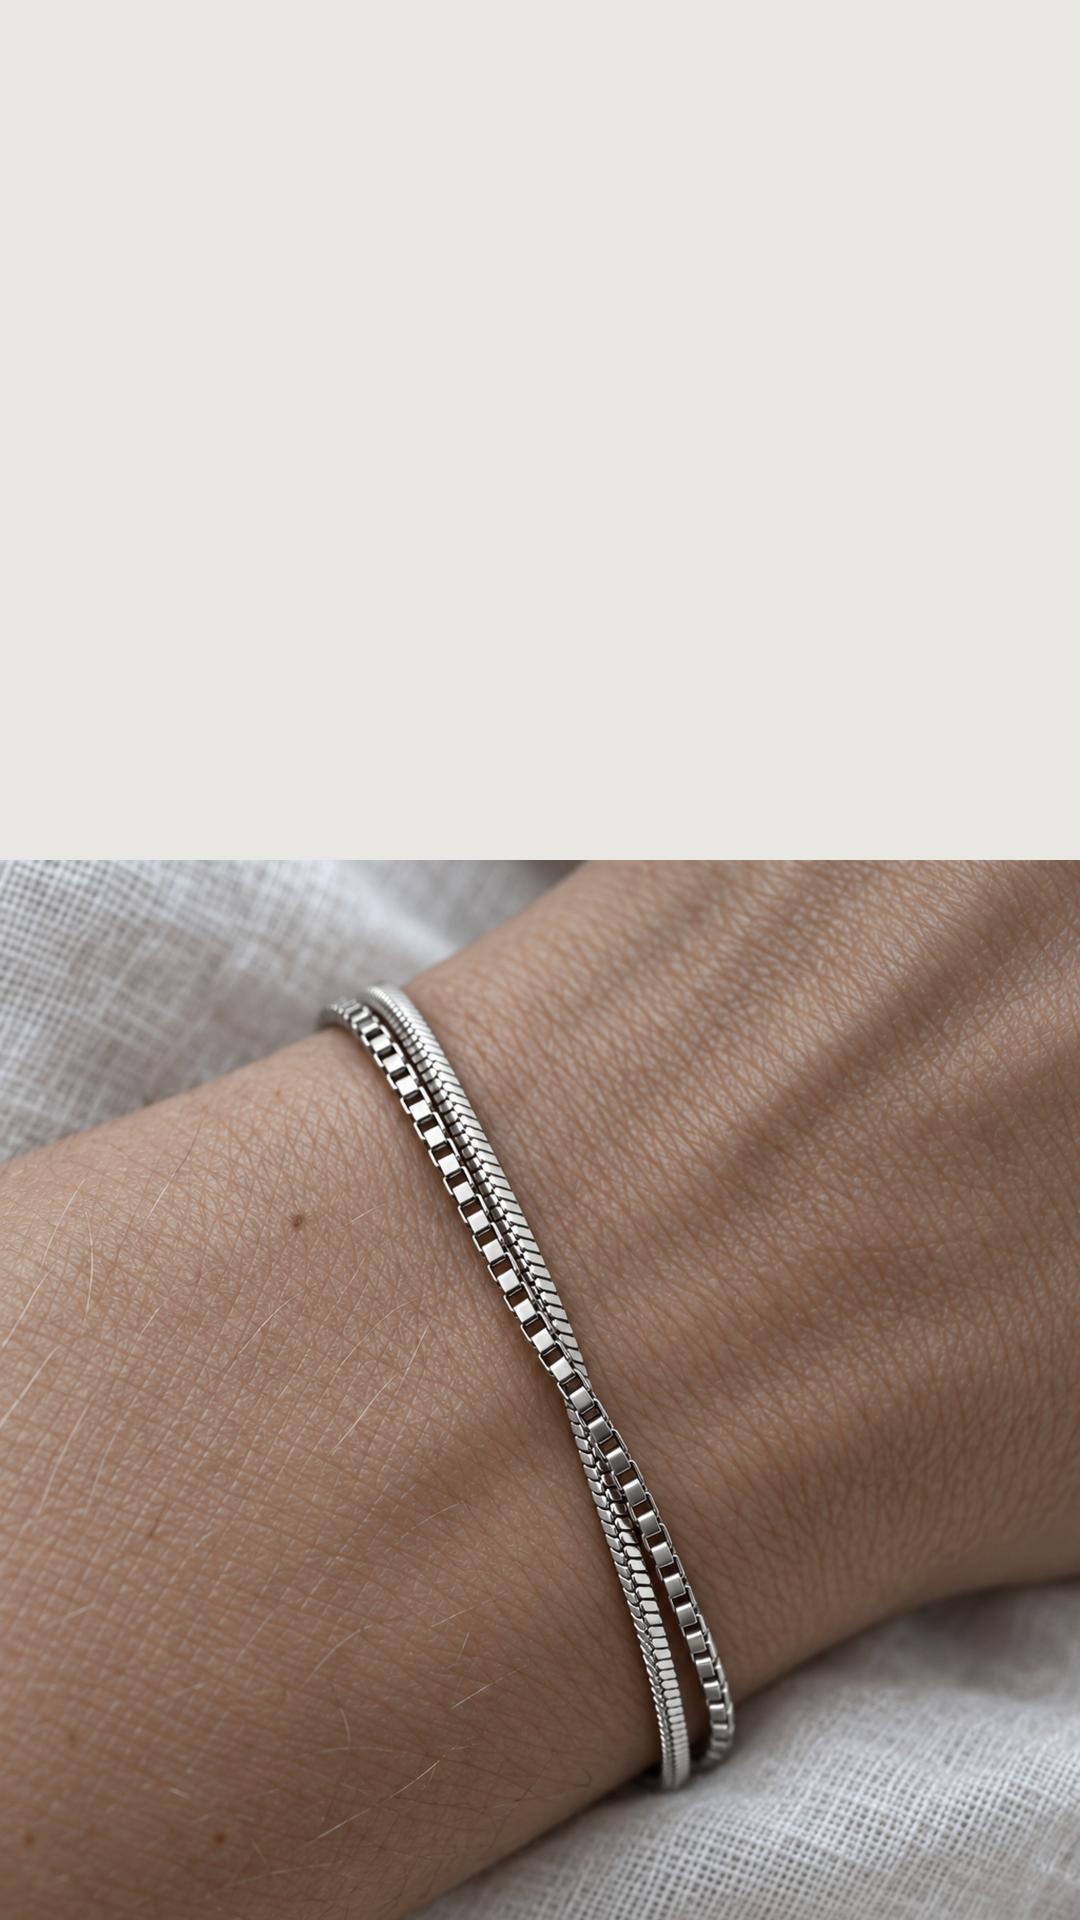
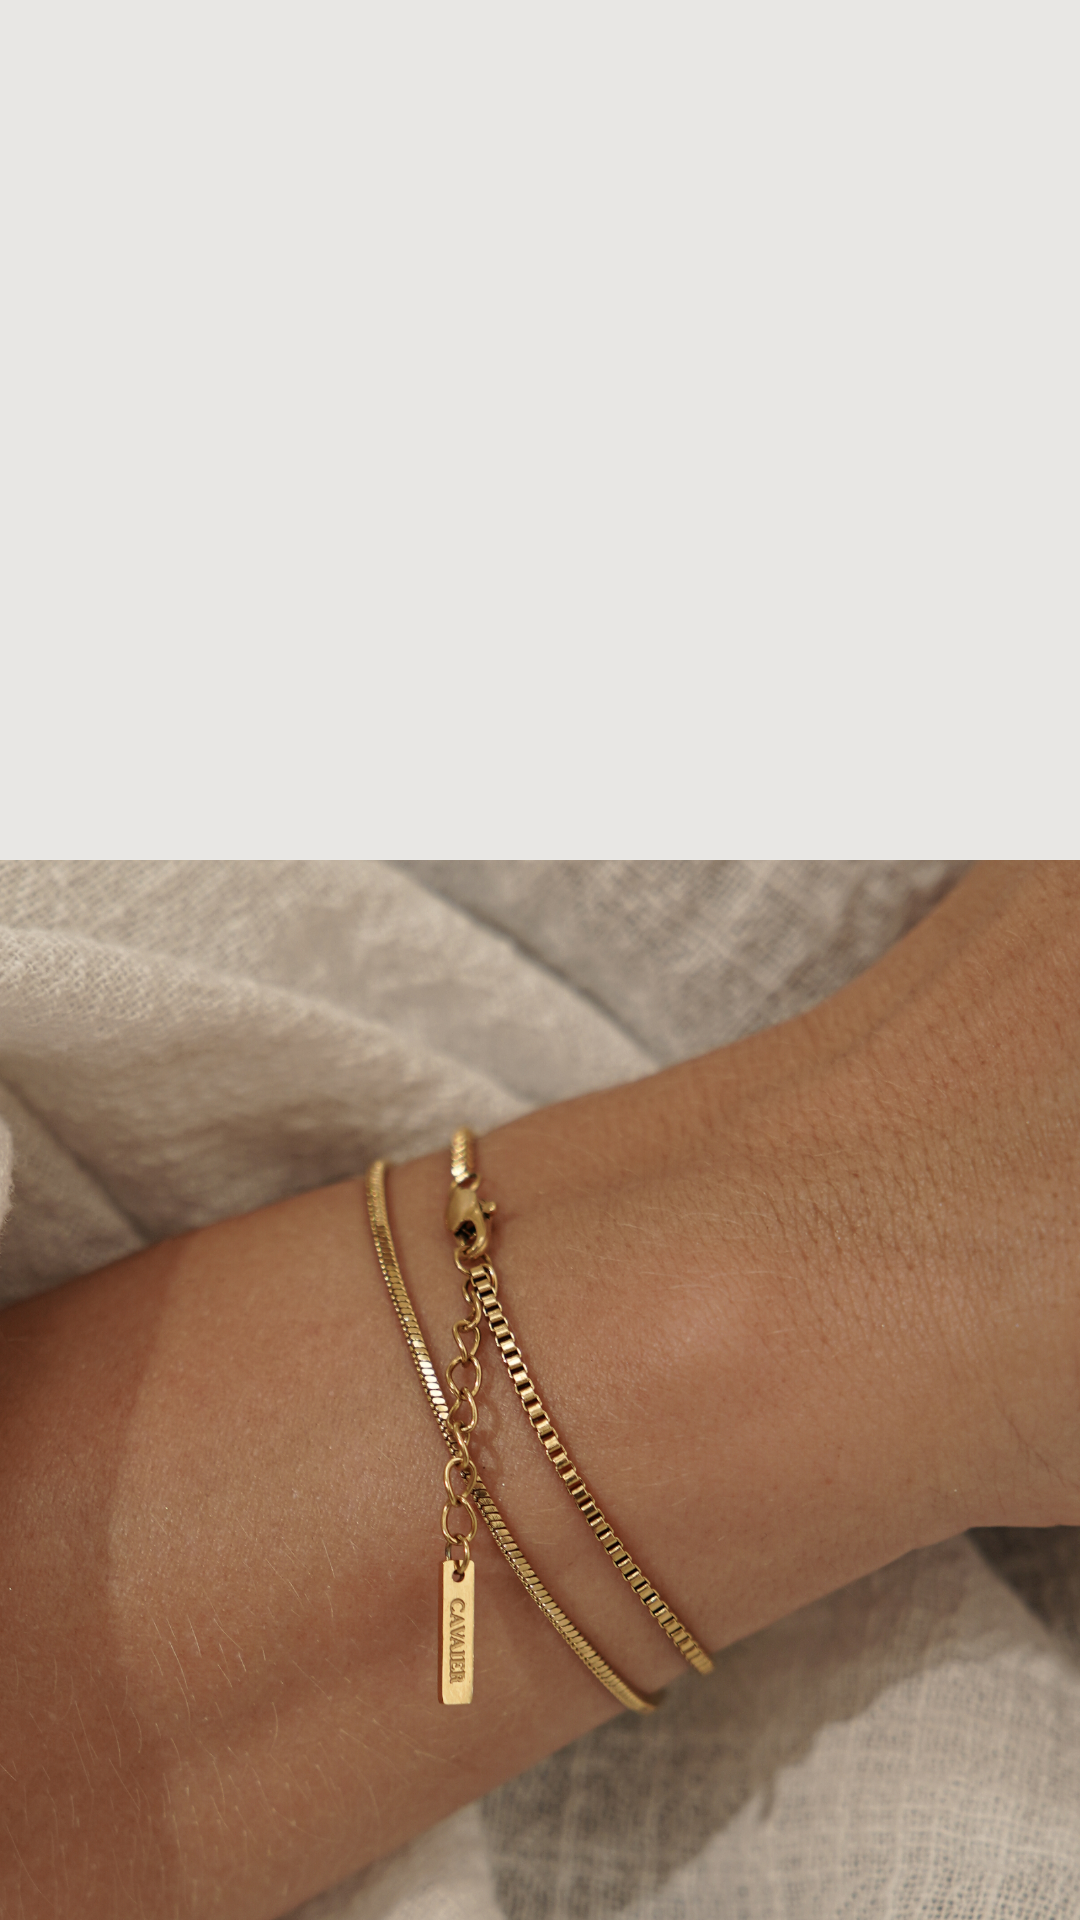
W429 rebuilt as gold duo with real Figma photos (no real women's silver duo photos exist); generated images removed
Claude-Session: https://claude.ai/code/session_01LtGMNmy7hV4kZNsS3Vsb6Q

diff --git a/bfcm26/canvas/W429-C1.dc.html b/bfcm26/canvas/W429-C1.dc.html
@@ -2,7 +2,7 @@
 <html lang="en">
 <head>
 <meta charset="utf-8">
-<title>W Batch 429 - C1 · She chose silver (IM8 Inter Miami CF chose IM8)</title>
+<title>W Batch 429 - C1 · She chose gold (IM8 Inter Miami CF chose IM8)</title>
 <script src="./support.js"></script>
 </head>
 <body>
@@ -15,12 +15,12 @@ a{color:#141414}a:hover{color:#000000}
 </style>
 </helmet>
 <div style="width: 1080px; height: 1920px; position: relative; overflow: hidden; background: #E8E7E4; font-family: Figtree, sans-serif; color: #141414">
-<div style="position: absolute; top: 860px; left: 0; width: 1080px; height: 1060px; overflow: hidden"><img src="/_blob/0b62c4105757ba8c78c41d4d27ab1214" alt="Close-up of the silver box chain and square chain of the 2x Duo Minimal Set on a wrist resting on pale linen" style="position: absolute; top: -315px; left: 0px; width: 1080px; height: auto; display: block"></div>
+<div style="position: absolute; top: 860px; left: 0; width: 1080px; height: 1060px; overflow: hidden"><img src="/_blob/cdcf08977772d5a45a290cd2fabebc88" alt="The gold 2x Duo Minimal Set, box chain and square chain with its small bar tag, on a wrist resting in soft linen" style="position: absolute; top: -720px; left: -468px; width: 1800px; height: auto; display: block"></div>
 <div style="position: absolute; top: 300px; left: 0; width: 1080px; display: flex; flex-direction: column; align-items: center; gap: 22px; text-align: center">
 <img src="/_blob/b5d78a878b48e10609c923597dd1852e" alt="Cavaier" style="width: 110px; height: auto; display: block">
 <span style="display: inline-flex; align-items: center; gap: 14px; margin-top: 14px; font-size: 24px; font-weight: 600; letter-spacing: 0.1em; color: #141414"><i style="display: block; width: 34px; height: 3px; background: #A82C24"></i>BLACK FRIDAY · THE DUO AT 30% OFF<i style="display: block; width: 34px; height: 3px; background: #A82C24"></i></span>
-<h1 style="margin: 0; font-size: 92px; line-height: 1.06; letter-spacing: 0.04em; font-weight: 400; text-transform: uppercase">She chose<br><span style="font-weight: 300">silver.</span></h1>
-<div style="margin-top: 10px"><a href="https://cavaier.com/products/2x-duo-minimal-set-for-her?variant=54997776990554" style="display: inline-flex; align-items: center; justify-content: center; height: 80px; padding: 0 48px; background: #141414; color: #FFFFFF; text-decoration: none; font-size: 22px; font-weight: 500; letter-spacing: 0.1em">SEE WHY →</a></div>
+<h1 style="margin: 0; font-size: 92px; line-height: 1.06; letter-spacing: 0.04em; font-weight: 400; text-transform: uppercase">She chose<br><span style="font-weight: 300">gold.</span></h1>
+<div style="margin-top: 10px"><a href="https://cavaier.com/products/2x-duo-minimal-set-for-her?variant=54997777088858" style="display: inline-flex; align-items: center; justify-content: center; height: 80px; padding: 0 48px; background: #141414; color: #FFFFFF; text-decoration: none; font-size: 22px; font-weight: 500; letter-spacing: 0.1em">SEE WHY →</a></div>
 </div>
 </div>
 </x-dc>

diff --git a/bfcm26/canvas/W429-C2.dc.html b/bfcm26/canvas/W429-C2.dc.html
@@ -2,7 +2,7 @@
 <html lang="en">
 <head>
 <meta charset="utf-8">
-<title>W Batch 429 - C2 · Black Friday, in silver (IM8 Limited-time 2026 deals)</title>
+<title>W Batch 429 - C2 · Black Friday, in gold (IM8 Limited-time 2026 deals)</title>
 <script src="./support.js"></script>
 </head>
 <body>
@@ -15,12 +15,12 @@ a{color:#141414}a:hover{color:#000000}
 </style>
 </helmet>
 <div style="width: 1080px; height: 1920px; position: relative; overflow: hidden; background: #EDECE9; font-family: Figtree, sans-serif; color: #141414">
-<div style="position: absolute; top: 620px; left: 0; width: 1080px; height: 790px; overflow: hidden"><img src="/_blob/157dc15829ab0c656dd1fa10f9cda7c2" alt="The silver 2x Duo Minimal Set, a box chain and a square chain, on a wrist against a light plaster wall" style="position: absolute; top: -570px; left: 0px; width: 1180px; height: auto; display: block"></div>
+<div style="position: absolute; top: 620px; left: 0; width: 1080px; height: 790px; overflow: hidden"><img src="/_blob/c2883a4a82267efd1c936a6221426635" alt="The gold 2x Duo Minimal Set with its small bar tag on a sun-kissed wrist over a cream cushion" style="position: absolute; top: -467px; left: 0px; width: 1250px; height: auto; display: block"></div>
 <div style="position: absolute; top: 300px; left: 0; width: 1080px; display: flex; flex-direction: column; align-items: center; gap: 10px; text-align: center">
 <img src="/_blob/b5d78a878b48e10609c923597dd1852e" alt="Cavaier" style="width: 110px; height: auto; display: block; margin-bottom: 14px">
 <h1 style="margin: 0; font-size: 52px; line-height: 1.12; letter-spacing: 0.04em; font-weight: 400; text-transform: uppercase">Black Friday,</h1>
-<span style="font-size: 60px; line-height: 1.05; font-weight: 300; font-style: italic; letter-spacing: 0.01em">in silver.</span>
-<p style="margin: 6px 0 0; font-size: 27px; line-height: 1.5; font-weight: 300; max-width: 720px">Two fine chains for every day, 30% off sitewide.</p>
+<span style="font-size: 60px; line-height: 1.05; font-weight: 300; font-style: italic; letter-spacing: 0.01em">in gold.</span>
+<p style="margin: 6px 0 0; font-size: 27px; line-height: 1.5; font-weight: 300; max-width: 720px">Two fine chains and a small tag, 30% off sitewide.</p>
 </div>
 <div style="position: absolute; top: 520px; left: 56px; width: 280px; height: 280px; border-radius: 50%; background: #141414; color: #FFFFFF; display: flex; flex-direction: column; align-items: center; justify-content: center; text-align: center">
 <span style="font-size: 26px; font-weight: 400; letter-spacing: 0.1em; color: #FFFFFF">NOW</span>

diff --git a/bfcm26/canvas/W429-C3.dc.html b/bfcm26/canvas/W429-C3.dc.html
@@ -14,13 +14,13 @@ body{margin:0}
 a{color:#141414}a:hover{color:#000000}
 </style>
 </helmet>
-<div style="width: 1080px; height: 1920px; position: relative; overflow: hidden; background: #EDEEEF; font-family: Figtree, sans-serif; color: #141414">
-<div style="position: absolute; top: 820px; left: 0; width: 1080px; height: 1100px; overflow: hidden"><img src="/_blob/eda950bd802a6f05d1c474bec92b76dc" alt="The silver 2x Duo Minimal Set, a box chain and a square chain crossing on a bare wrist" style="position: absolute; top: -170px; left: 0px; width: 1080px; height: auto; display: block"></div>
+<div style="width: 1080px; height: 1920px; position: relative; overflow: hidden; background: #EDEBE7; font-family: Figtree, sans-serif; color: #141414">
+<div style="position: absolute; top: 820px; left: 0; width: 1080px; height: 1100px; overflow: hidden"><img src="/_blob/b7c77a24df3ff35e806b9aa5a7256373" alt="The gold 2x Duo Minimal Set on crossed wrists against a warm cream background" style="position: absolute; top: -730px; left: -308px; width: 1600px; height: auto; display: block"></div>
 <div style="position: absolute; top: 300px; left: 0; width: 1080px; display: flex; flex-direction: column; align-items: center; gap: 20px; text-align: center">
 <img src="/_blob/b5d78a878b48e10609c923597dd1852e" alt="Cavaier" style="width: 110px; height: auto; display: block; margin-bottom: 8px">
 <h1 style="margin: 0; font-size: 56px; line-height: 1.14; letter-spacing: 0.04em; font-weight: 400; text-transform: uppercase">Built for every day.<br><span style="font-weight: 300">Priced for</span><br>Black Friday.</h1>
 <p style="margin: 0; font-size: 27px; line-height: 1.6; font-weight: 300; max-width: 720px">Waterproof, recycled 316L steel, 30% off. Prices are already reduced, no code needed.</p>
-<div style="margin-top: 4px"><a href="https://cavaier.com/products/2x-duo-minimal-set-for-her?variant=54997776990554" style="display: inline-flex; align-items: center; justify-content: center; height: 80px; padding: 0 48px; background: #141414; color: #FFFFFF; text-decoration: none; font-size: 22px; font-weight: 500; letter-spacing: 0.1em">SHOP THE SILVER DUO →</a></div>
+<div style="margin-top: 4px"><a href="https://cavaier.com/products/2x-duo-minimal-set-for-her?variant=54997777088858" style="display: inline-flex; align-items: center; justify-content: center; height: 80px; padding: 0 48px; background: #141414; color: #FFFFFF; text-decoration: none; font-size: 22px; font-weight: 500; letter-spacing: 0.1em">SHOP THE GOLD DUO →</a></div>
 </div>
 </div>
 </x-dc>
